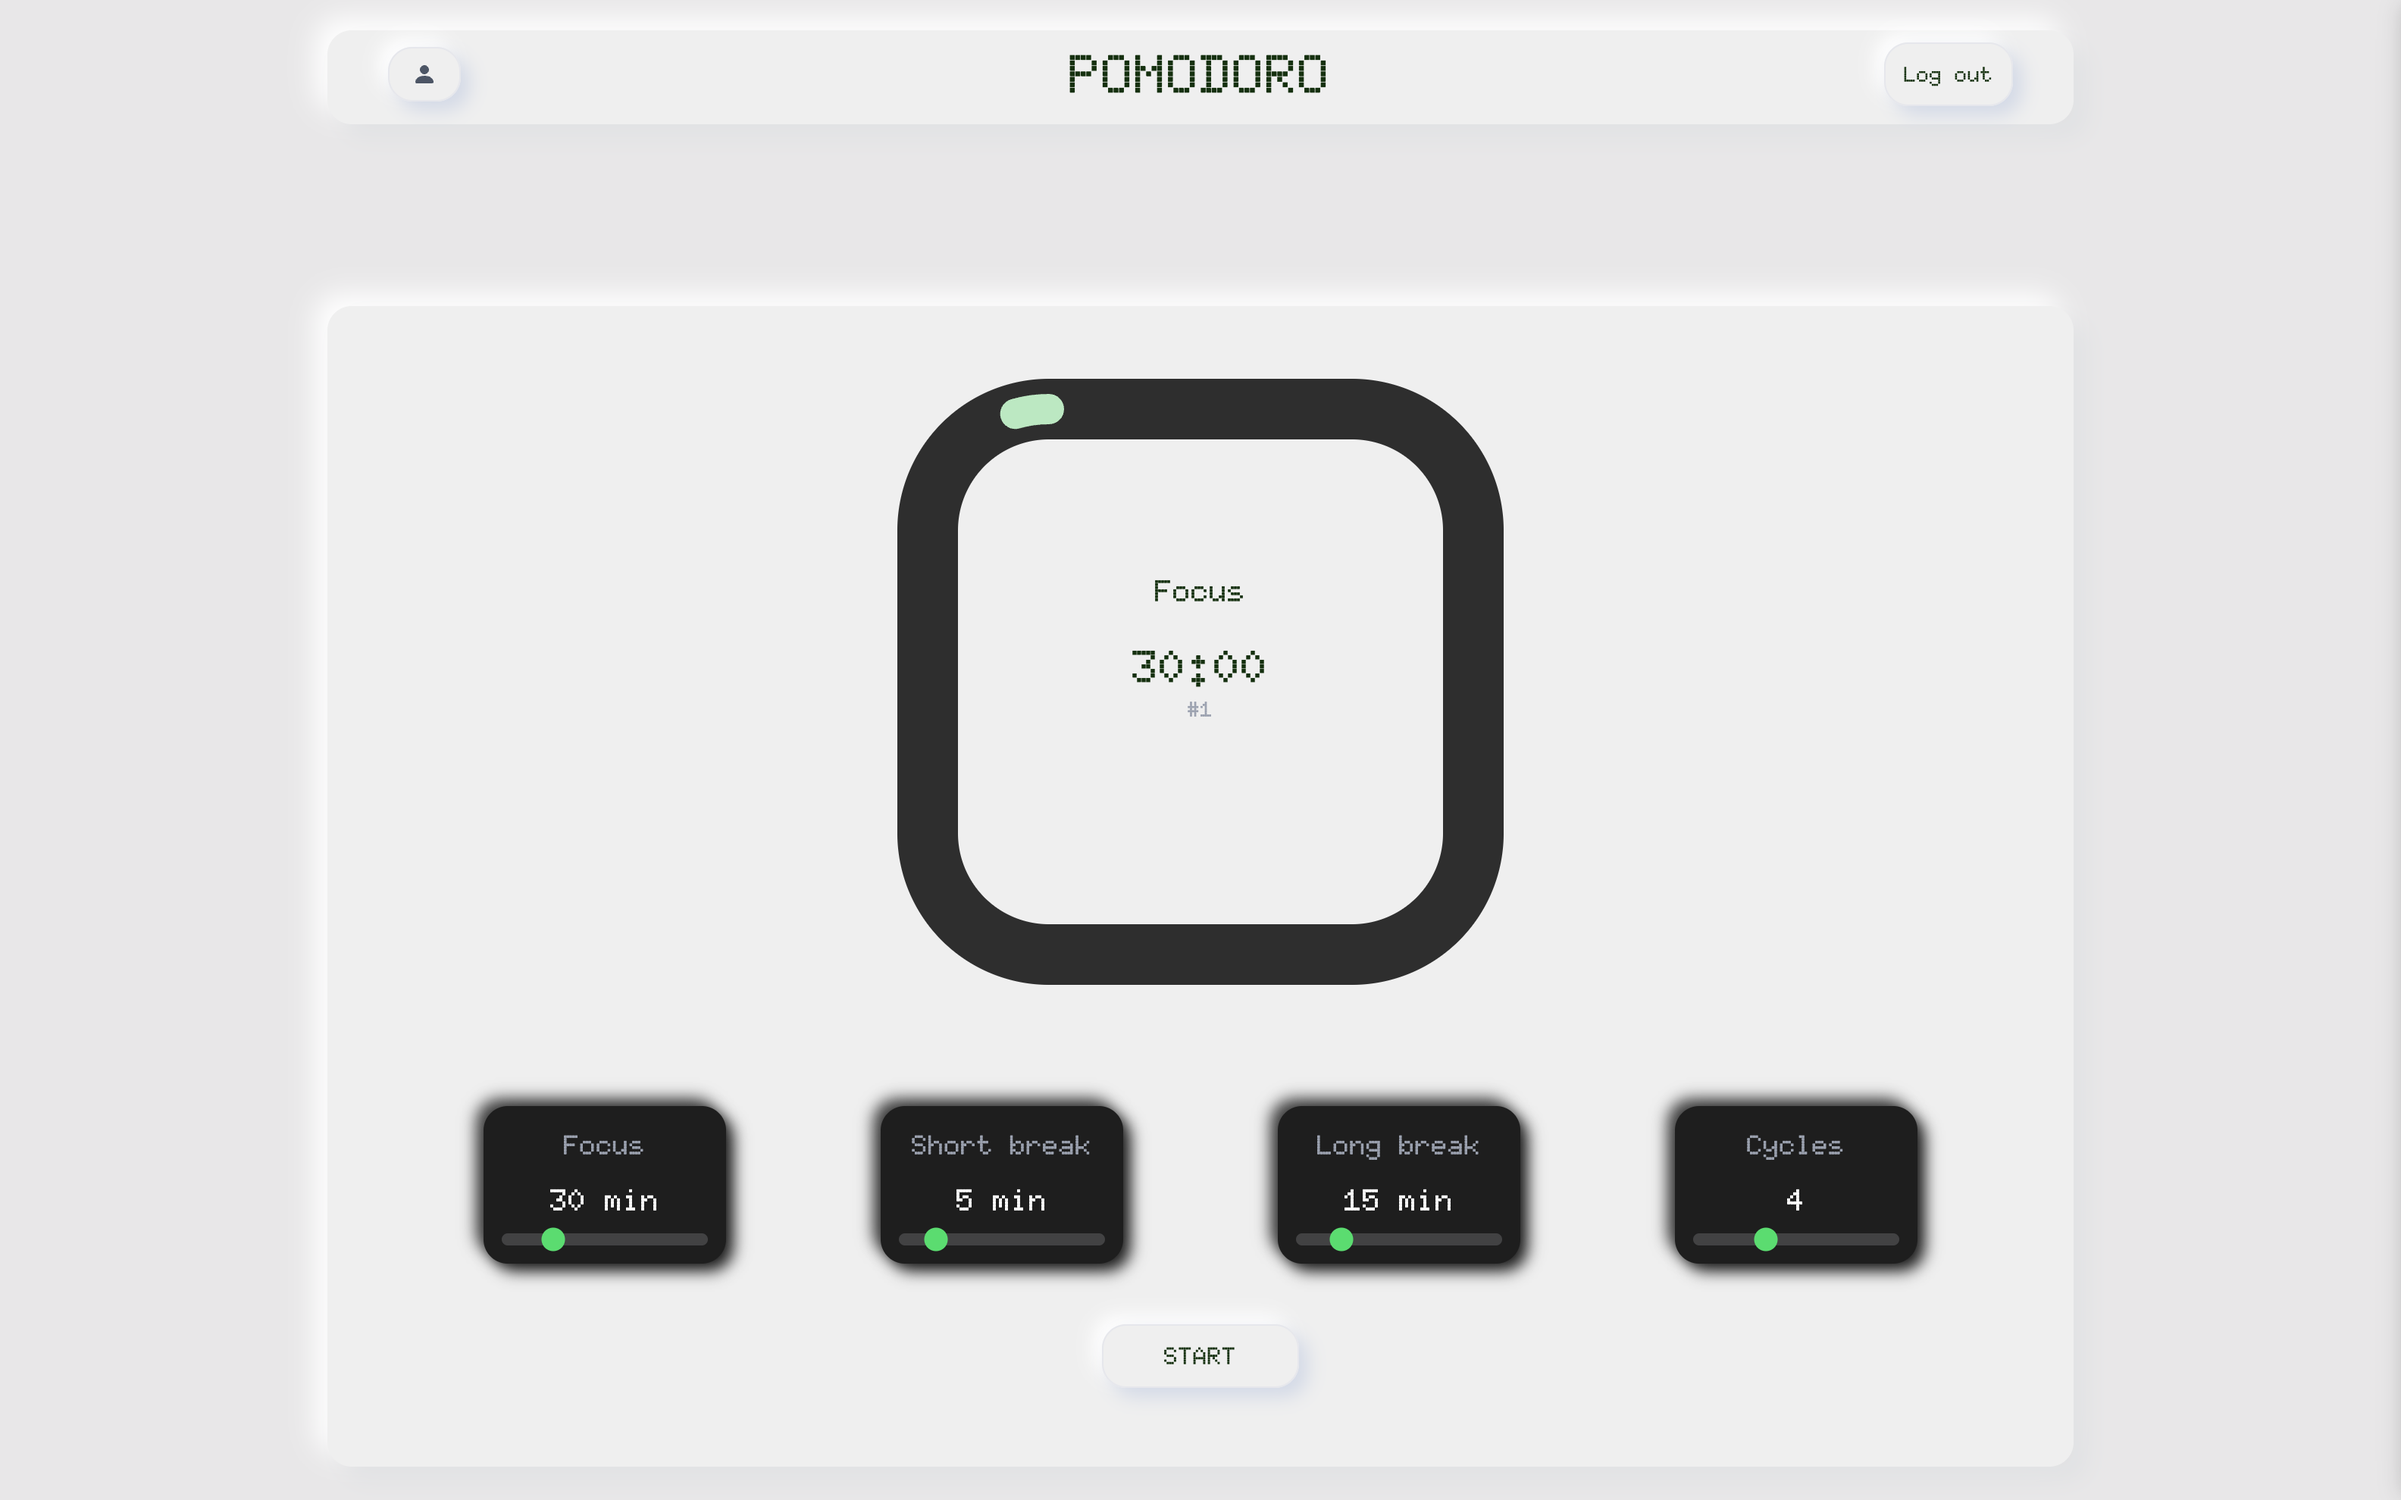
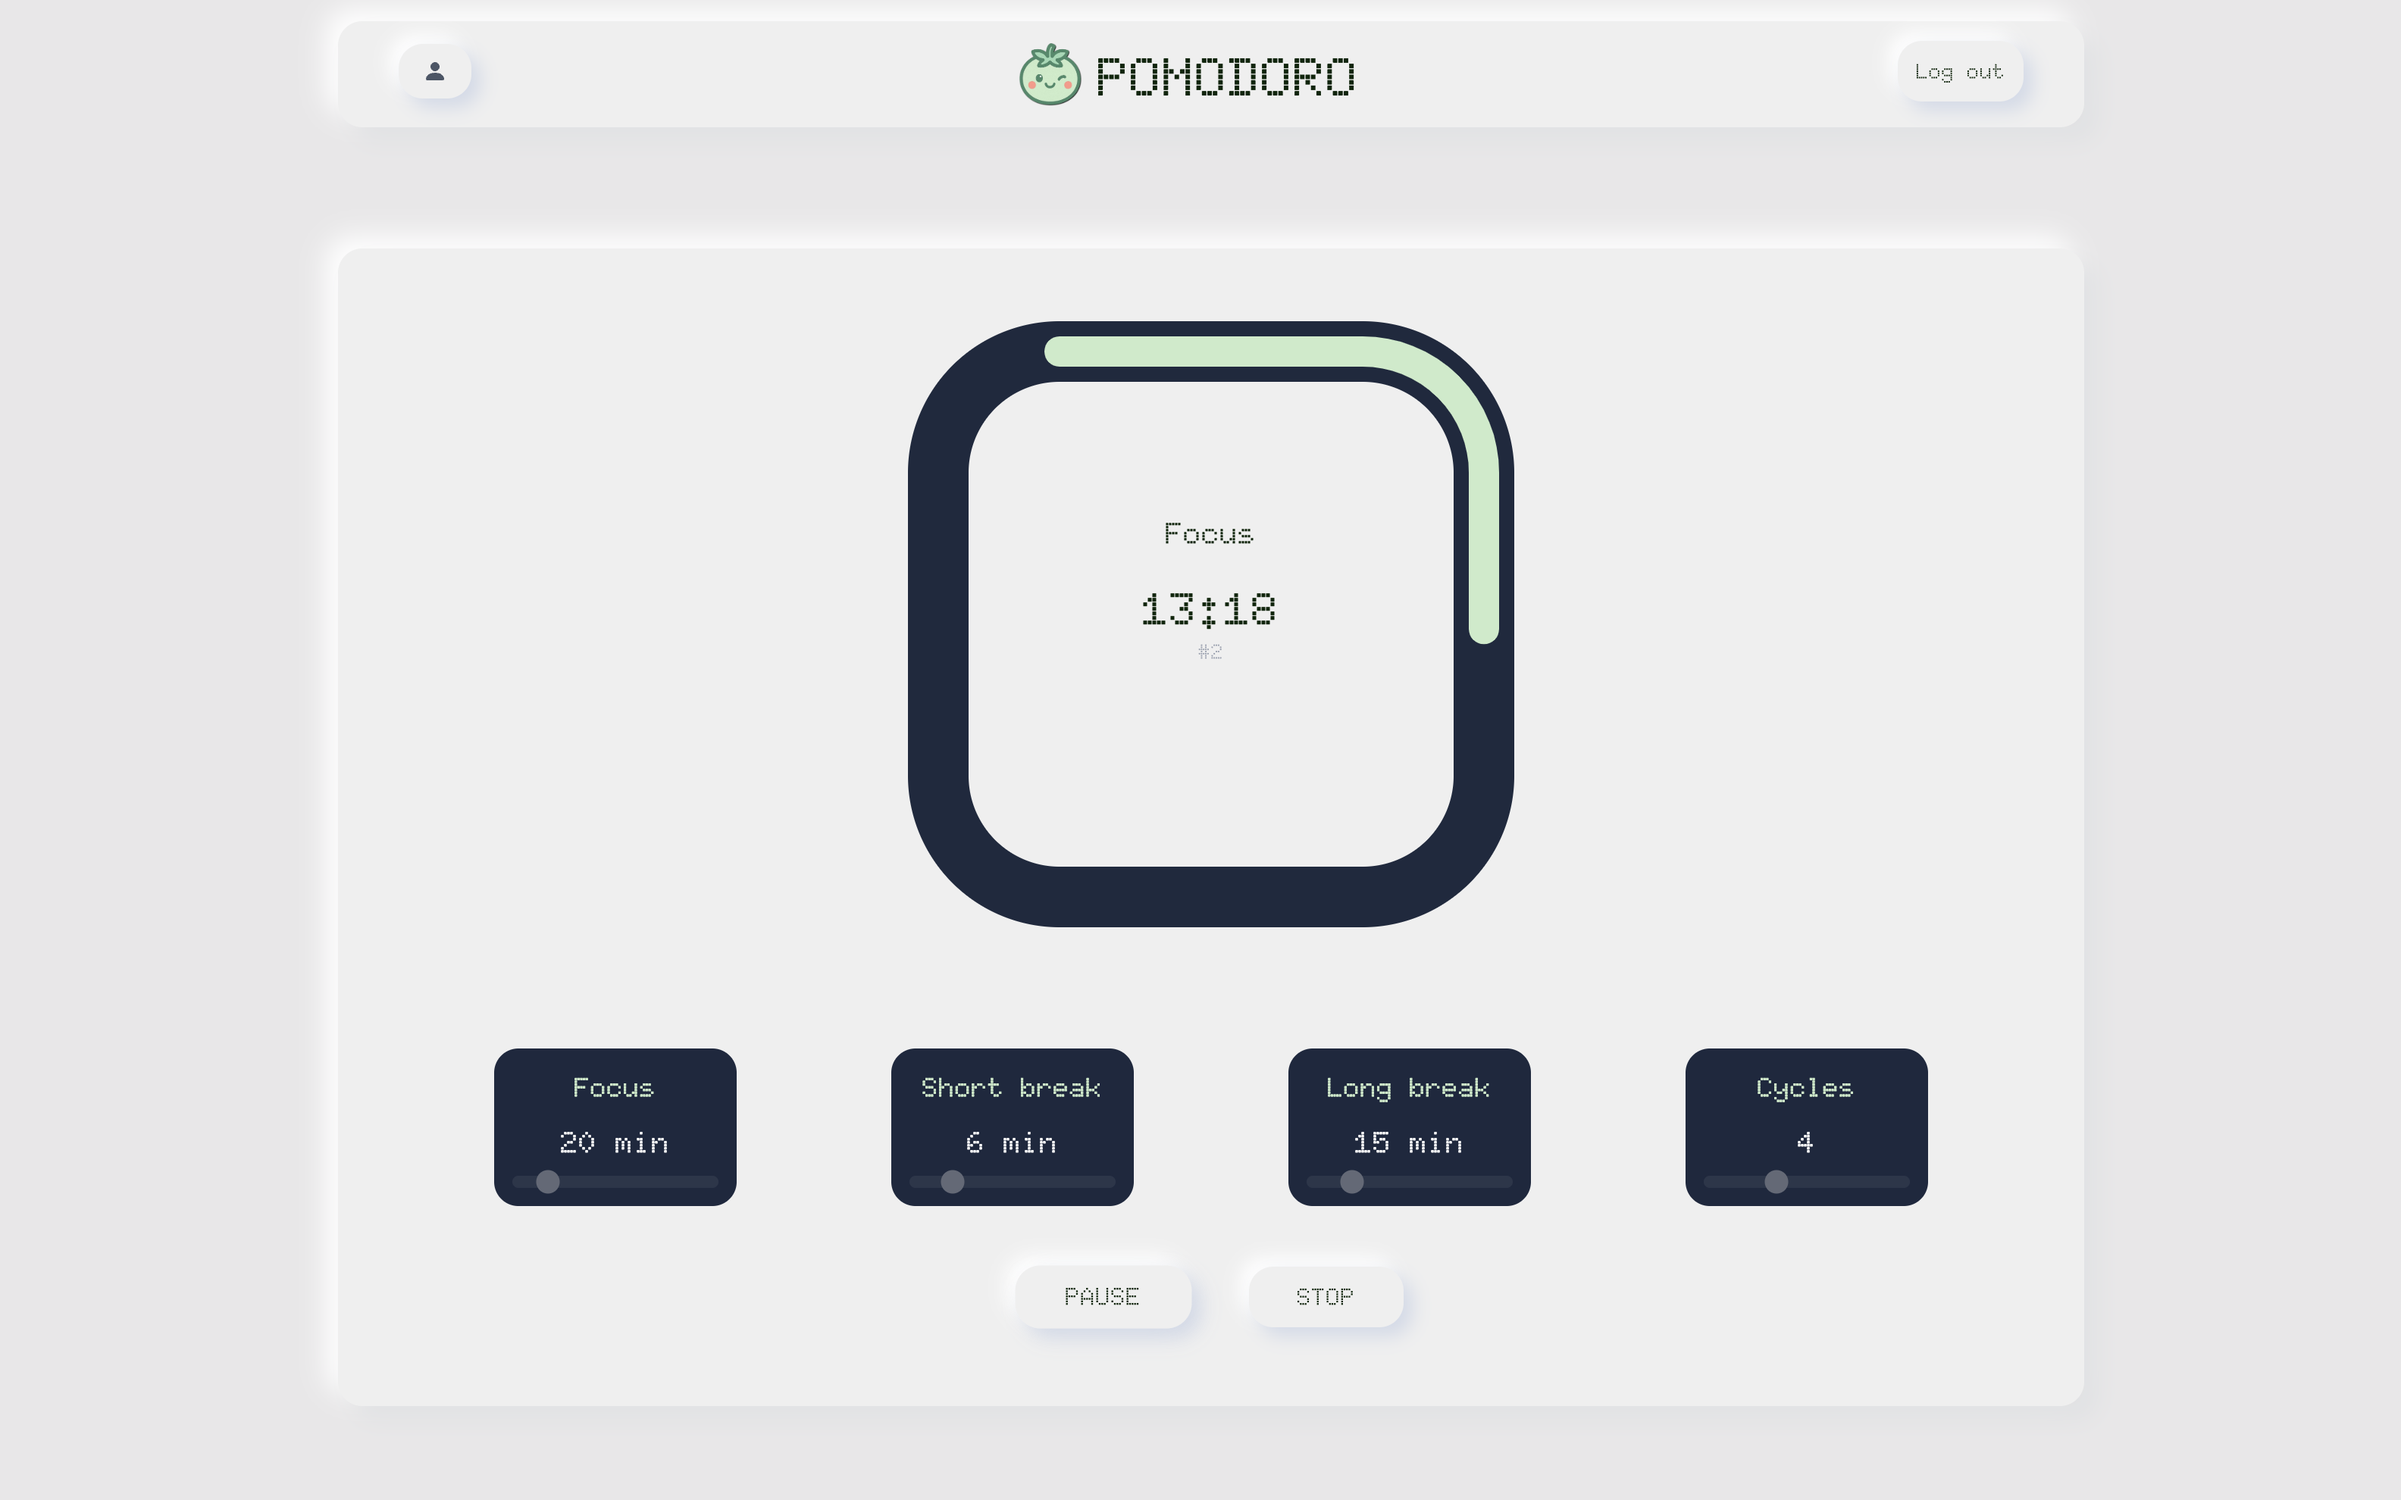
front | update design

diff --git a/web/src/components/authentification/auth.tsx b/web/src/components/authentification/auth.tsx
@@ -5,6 +5,7 @@ import { signIn } from "next-auth/react"
 import { FcGoogle } from "react-icons/fc";
 
 import { usePathname } from "next/navigation";
+import Logo from "../logo";
 
 export default function MainAuth({ children }: { children: React.ReactNode }) {
 
@@ -14,19 +15,16 @@ export default function MainAuth({ children }: { children: React.ReactNode }) {
         <div className="m-4 md:mx-auto my-30 min-w-100 max-w-140 flex flex-col py-10 px-10 md:px-20 bg-beige rounded-2xl shadow-[0.625rem_0.625rem_0.875rem_0_rgb(225,226,228),-0.5rem_-0.5rem_1.125rem_0_rgb(255,255,255)]">
             <div className="w-full flex justify-evenly py-2 mb-7">
                 <Link href="/login" className="flex flex-row items-center gap-3 cursor-pointer">
-                    <span className={pathname === "/login" ? "font-bold text-2xl" : ""}>Login</span>
+                    <span className={pathname === "/login" ? "font-bold text-2xl text-slate-800" : ""}>Login</span>
                 </Link>
                 <Link href="/register" className="flex flex-row items-center gap-3 cursor-pointer">
-                    <span className={pathname === "/register" ? "font-bold text-2xl" : ""}>Sign up</span>
+                    <span className={pathname === "/register" ? "font-bold text-2xl text-slate-800" : ""}>Sign up</span>
                 </Link>
             </div>
-            <h1 className="uppercase text-6xl text-center">Pomodoro</h1>
-
+            <Logo />
             <Suspense fallback={<div>Chargement...</div>}>
                 {children}
             </Suspense>
-
-
             <div className="flex items-center gap-2 my-6">
                 <div className="flex-1 border-t border-gray-300 dark:border-zinc-700 shadow-sm blur-[1px] opacity-70" />
                 <span className="text-sm text-gray-500 dark:text-gray-400">Continue with</span>

diff --git a/web/src/components/landing-page/header.tsx b/web/src/components/landing-page/header.tsx
@@ -7,7 +7,7 @@ import { useSelectedLayoutSegment } from "next/navigation";
 import * as React from "react";
 import { Button, buttonVariants } from "@/components/ui/button";
 import { useSession } from "next-auth/react";
-import Image from "next/image";
+import Logo from "../logo";
 
 interface NavProps {
   items?: {
@@ -125,10 +125,7 @@ export function LandingPageHeader(props: NavProps) {
     <header className="fixed w-full z-50 bg-background/80 px-6 md:px-10 backdrop-blur ">
       <div className="flex h-18 items-center justify-between py-4">
         <div className="flex items-center gap-4 md:gap-10">
-          {/* <Logo className="hidden md:flex" /> */}
-
           {props.items?.length ? <DesktopItems items={props.items} /> : null}
-
           <Button
             className="space-x-2 md:hidden"
             size="icon"
@@ -140,19 +137,12 @@ export function LandingPageHeader(props: NavProps) {
               <Menu className="h-6 w-6" />
             )}
           </Button>
-
-          {/* <Logo className="md:hidden" /> */}
-
           {showMobileMenu && props.items && <MobileItems items={props.items} />}
         </div>
         <div className="absolute left-1/2 -translate-x-1/2 text-4xl font-bold">
-          <Link href="/dashboard" className="flex flex-row items-center ">
-            <Image width={50} height={50} src="/pomo.png" alt="Pomo logo" className="mr-2" />
-            <h1 className="mt-2 ">POMODORO</h1>
-          </Link>
+          <Logo />
         </div>
         <div className="flex gap-4 items-center">
-          {/* <ColorModeSwitcher /> */}
           <nav className="gap-4 items-center hidden md:flex">
             <AuthButtons />
           </nav>

diff --git a/web/src/components/ui/button.tsx b/web/src/components/ui/button.tsx
@@ -5,7 +5,7 @@ import { cva, type VariantProps } from "class-variance-authority"
 import { cn } from "@/lib/utils"
 
 const buttonVariants = cva(
-  "py-5 inline-flex items-center justify-center gap-2 whitespace-nowrap rounded-md  font-medium transition-all disabled:pointer-events-none disabled:opacity-50 [&_svg]:pointer-events-none [&_svg:not([class*='size-'])]:size-4 shrink-0 [&_svg]:shrink-0 outline-none focus-visible:border-ring focus-visible:ring-ring/50 focus-visible:ring-[3px] aria-invalid:ring-destructive/20 dark:aria-invalid:ring-destructive/40 w-full rounded-2xl shadow-[6px_6px_12px_#d1d9e6,_-6px_-6px_12px_#ffffff] hover:scale-[1.04] transition cursor-pointer ",
+  "bold py-5 inline-flex items-center justify-center gap-2 whitespace-nowrap rounded-md  font-medium transition-all disabled:pointer-events-none disabled:opacity-50 [&_svg]:pointer-events-none [&_svg:not([class*='size-'])]:size-4 shrink-0 [&_svg]:shrink-0 outline-none focus-visible:border-ring focus-visible:ring-ring/50 focus-visible:ring-[3px] aria-invalid:ring-destructive/20 dark:aria-invalid:ring-destructive/40 w-full rounded-2xl shadow-[6px_6px_12px_#d1d9e6,_-6px_-6px_12px_#ffffff] hover:scale-[1.04] transition cursor-pointer ",
   {
     variants: {
       variant: {

diff --git a/web/src/components/pomodoro/SessionActions.tsx b/web/src/components/pomodoro/SessionActions.tsx
@@ -1,8 +1,10 @@
 import React from "react";
 import { Button } from "../ui/button";
+import { Pause, Play, Square } from "lucide-react";
 
 type SessionActionsProps = {
     isStart: boolean;
+    isPause: boolean;
     onStart: () => void;
     onPause: () => void;
     onAbort: () => void;
@@ -10,6 +12,7 @@ type SessionActionsProps = {
 
 export function SessionActions({
     isStart,
+    isPause,
     onStart,
     onPause,
     onAbort,
@@ -18,10 +21,12 @@ export function SessionActions({
         <div className="mb-10 w-full flex justify-center">
             {isStart ? (
                 <div className="flex flex-row gap-4 sm:gap-6 md:gap-10 w-fit">
-                    <Button className="w-auto px-8 " onClick={onPause}>
+                    <Button className="w-auto" onClick={onPause}>
+                        {isPause ? <Pause /> : <Play />}
                         PAUSE
                     </Button>
-                    <Button className="w-auto px-8" onClick={onAbort}>
+                    <Button className="w-auto" onClick={onAbort}>
+                        <Square />
                         STOP
                     </Button>
                 </div>

diff --git a/web/src/components/landing-page/featuresSection.tsx b/web/src/components/landing-page/featuresSection.tsx
@@ -9,12 +9,12 @@ const features = [
 
 export default function FeaturesSection() {
     return (
-        <section id='features' className="py-20 max-w-5xl w-full">
+        <section id='features' className="py-20 max-w-5xl w-full ">
             <h2 className="text-3xl font-bold mb-10">Fonctionnalités</h2>
             <div className="grid grid-cols-1 sm:grid-cols-2 md:grid-cols-2 gap-6">
                 {features.map((f, i) => (
-                    <div key={i} className="p-6 rounded-xl shadow bg-white text-left">
-                        <div className="mb-5 w-5 text-black">{f.icon}</div>
+                    <div key={i} className="p-6 rounded-xl shadow bg-slate-100  text-left">
+                        <div className="mb-5 w-5 text-slate-800">{f.icon}</div>
                         <h3 className="font-semibold text-lg mb-2">{f.title}</h3>
                         <p className="text-gray-600 text-sm">{f.desc}</p>
                     </div>

diff --git a/web/src/components/navbar/navbar.tsx b/web/src/components/navbar/navbar.tsx
@@ -1,8 +1,7 @@
-import Link from "next/link"
 import { Button } from "../ui/button";
 import { signOut } from "next-auth/react";
 import { LogOut } from "lucide-react";
-import Image from "next/image";
+import Logo from "../logo";
 
 function NavBar() {
 
@@ -15,12 +14,7 @@ function NavBar() {
                 </svg>
             </Button>
             {/* </Link> */}
-            <div className="absolute left-1/2 -translate-x-1/2 text-4xl font-bold">
-                <Link href="/dashboard" className="flex flex-row items-center ">
-                    <Image width={50} height={50} src="/pomo.png" alt="Pomo logo" className="mr-2" />
-                    <h1 className="mt-2 ">POMODORO</h1>
-                </Link>
-            </div>
+            <Logo url='dashboard' />
             <div>
                 <Button
                     onClick={() => signOut({ callbackUrl: "/login" })}

diff --git a/web/src/components/landing-page/heroSection.tsx b/web/src/components/landing-page/heroSection.tsx
@@ -6,11 +6,11 @@ export default function HeroSection() {
         <section className="pt-30 lg:pt-50">
             <h1 className="text-4xl font-bold mb-5 text-center">
                 Boostez votre productivité avec l&apos;application{" "}
-                <span className="inline-block mt-2 text-primary bg-slate-400 rounded-xl font-bold py-1 pl-3 pr-1">
+                <span className="inline-block mt-2 text-slate-800 bg-primary rounded-xl font-bold py-1 pl-3 pr-1">
                     Pomodoro.
                 </span>
             </h1>
-            <p className="mb-6 text-lg text-gray-600 ">
+            <p className="mb-6 text-lg text-slate-800 ">
                 Une application synchronisé en temps réel et une interface simple et efficace.
             </p>
             <div className="flex gap-4 justify-center">

diff --git a/web/src/components/pomodoro/SessionSettings.tsx b/web/src/components/pomodoro/SessionSettings.tsx
@@ -19,7 +19,7 @@ export function SettingSlider({
     onChange,
 }: SettingSliderProps) {
     return (
-        <div className="w-30 xl:w-40 flex flex-col gap-2 items-center bg-[#1e1e1e] rounded-2xl px-3 py-3 text-white shadow-[5px_5px_10px_rgb(25,25,25),-5px_-5px_10px_rgb(60,60,60)] text-center">
+        <div className="w-30 xl:w-40 flex flex-col gap-2 items-center bg-slate-800 rounded-2xl px-3 py-3 text-white  text-center">
             <span className="text-xs xl:text-lg text-primary font-bold">{label}</span>
             <span className="text-s xl:text-xl font-semibold">
                 {Math.round(value)}{suffix}

diff --git a/web/src/components/landing-page/preview.tsx b/web/src/components/landing-page/preview.tsx
@@ -3,7 +3,7 @@ import Image from "next/image";
 export default function Preview() {
     return (
         <section className="py-20 w-full flex justify-center">
-            <div className="bg-white rounded-2xl shadow-lg p-3 max-w-4xl w-full">
+            <div className="bg-slate-800 rounded-2xl shadow-lg p-3 max-w-4xl w-full">
                 <div className="flex items-center gap-2 px-3 py-1">
                     <span className="w-3 h-3 bg-red-400 rounded-full" />
                     <span className="w-3 h-3 bg-yellow-400 rounded-full" />

diff --git a/web/src/components/logo.tsx b/web/src/components/logo.tsx
@@ -1,0 +1,13 @@
+import Image from "next/image";
+import Link from "next/link";
+
+export default function Logo({ url = "" }: { url?: string }) {
+    return (
+        <div className="text-align text-4xl font-bold">
+            <Link href={`/${url}`} className="flex flex-row items-center justify-center">
+                <Image width={50} height={50} src="/pomo.png" alt="Pomo logo" className="mr-2" />
+                <h1 className="mt-2">POMODORO</h1>
+            </Link>
+        </div>
+    );
+}

diff --git a/web/src/components/pomodoro/pomodoro.tsx b/web/src/components/pomodoro/pomodoro.tsx
@@ -32,6 +32,7 @@ export function Pomodoro() {
                     onPause={() => performSessionAction('pause')}
                     onAbort={() => performSessionAction('abort')}
                     isStart={!!pomodoroSession.phaseStartedAt}
+                    isPause={!!pomodoroSession.isPaused}
                 />
             </div>
         );

diff --git a/web/src/components/pomodoro/TimerProgress.tsx b/web/src/components/pomodoro/TimerProgress.tsx
@@ -25,7 +25,7 @@ export const TimerProgress = ({ progress, timeLeft, currentCycle, phase }: Props
                     rx="20"
                     ry="20"
                     fill="none"
-                    stroke="#2e2e2e"
+                    stroke="#1d293d"
                     strokeWidth="10"
                 />
 
